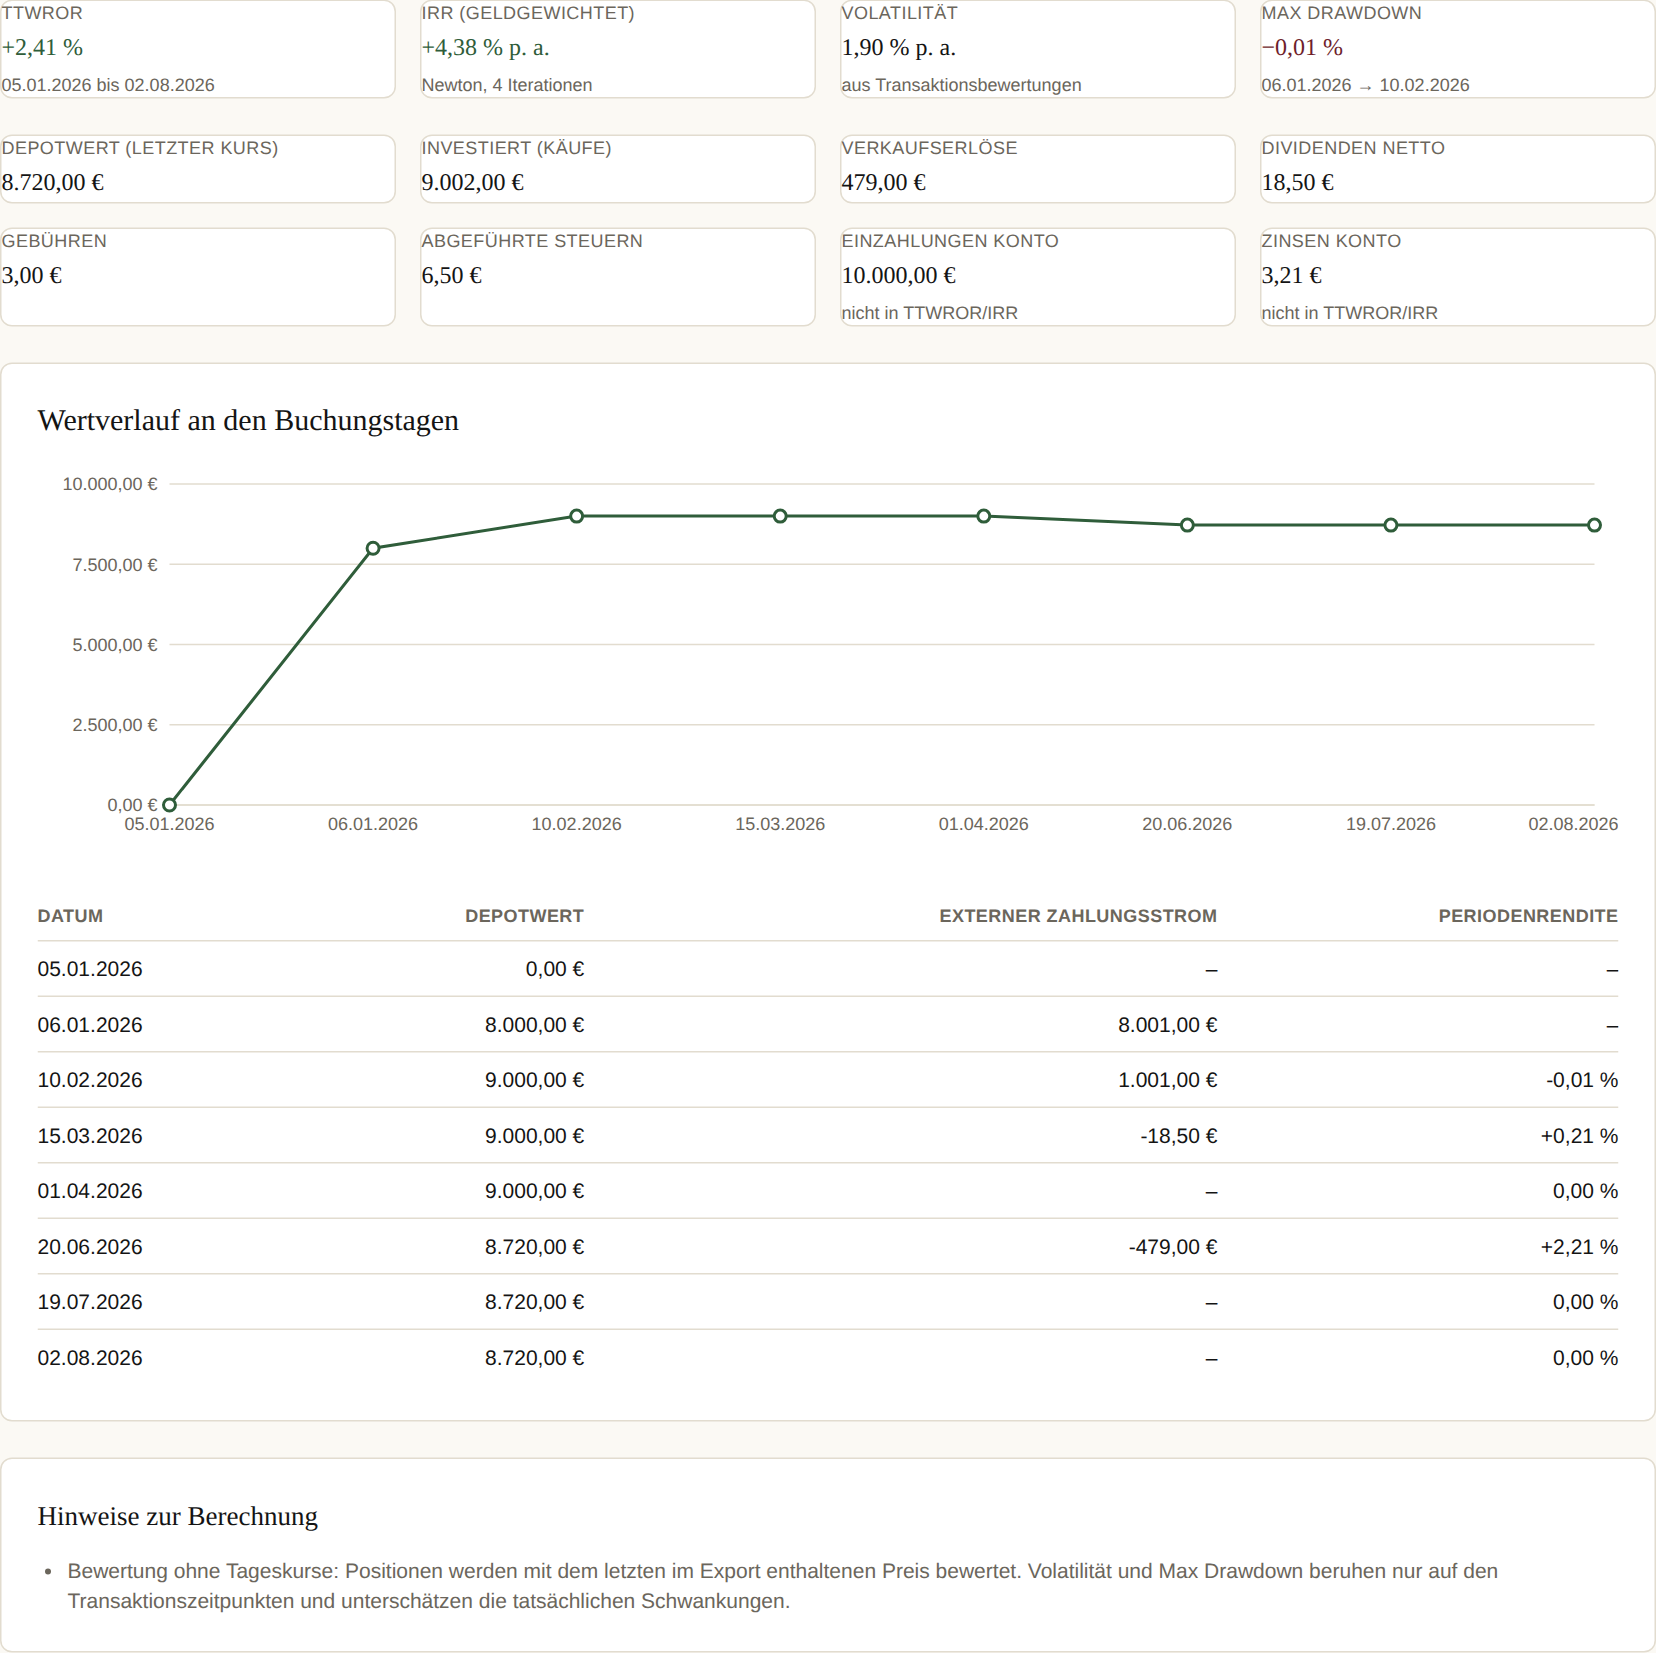
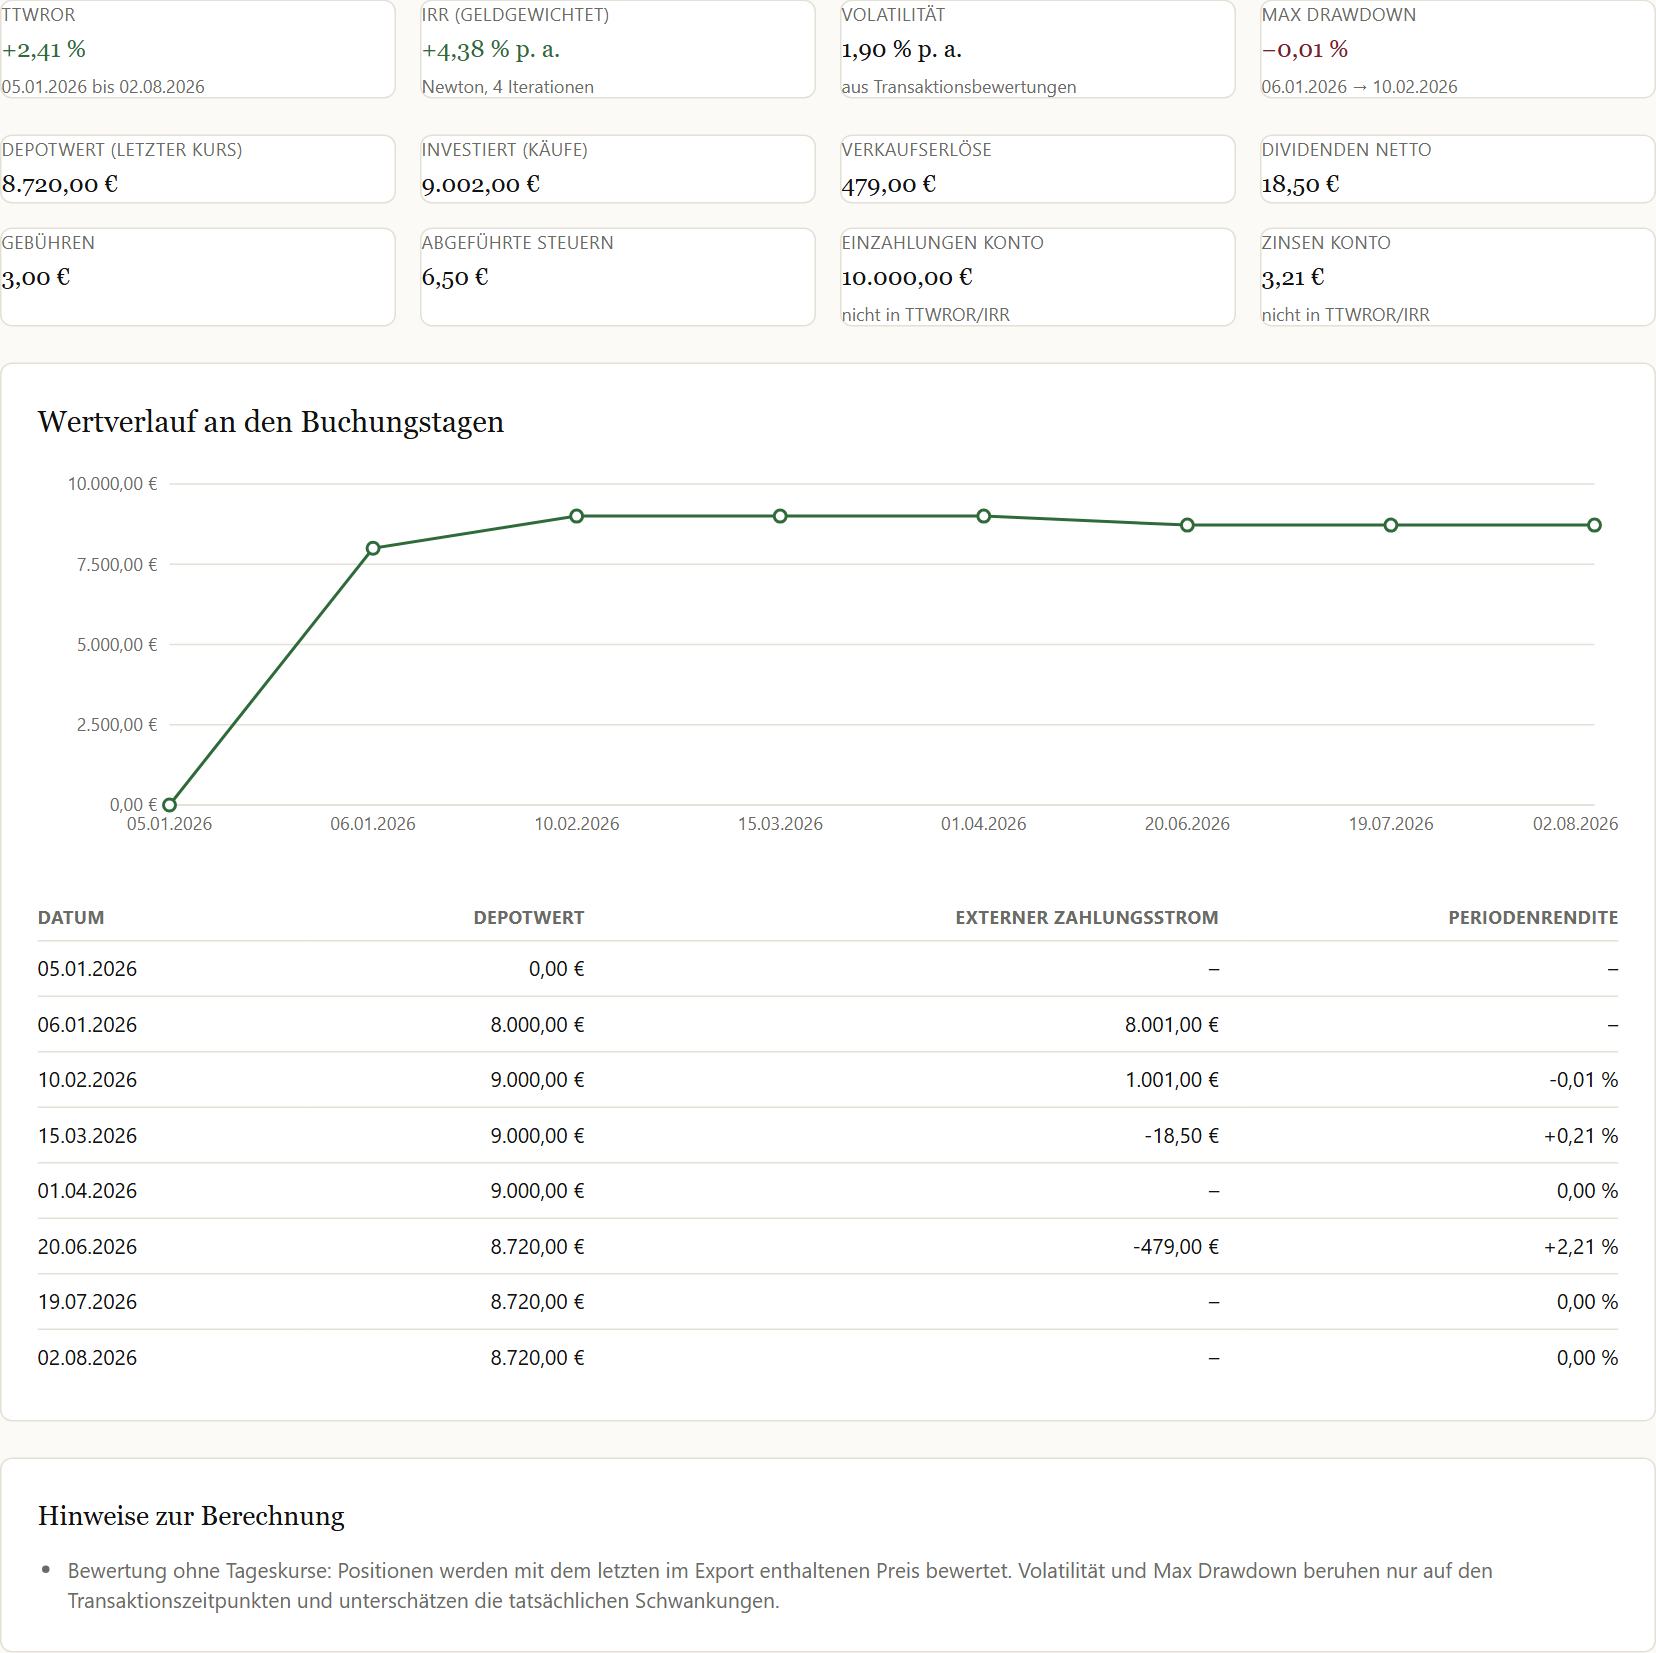
style(k1): Palette an K2 und K3 angleichen
Hex-Werte wie in K2/K3 (Token-Namen bleiben), auch in Diagrammen,
PDF und Favicon. Goldene Überzeile im PDF in gold-deep, Text der
Drop-Zone beim Ziehen in ink (Kontrast AA). Screenshots neu.

diff --git a/packages/pdf/src/ReportDocument.tsx b/packages/pdf/src/ReportDocument.tsx
@@ -2,18 +2,19 @@ import { Document, Page, StyleSheet, Text, View } from "@react-pdf/renderer";
 import type { ReportMetric, ReportPdfData, ReportTable } from "./types";
 
 const COLORS = {
-  ink: "#141414",
-  muted: "#6b665c",
-  line: "#e2dccf",
-  gold: "#b8962e",
-  green: "#2f5d3a",
-  bordeaux: "#6e1e2b",
-  paper: "#fbf9f4",
+  ink: "#111111",
+  muted: "#6b6b66",
+  line: "#e3e0d6",
+  gold: "#b8912f",
+  goldDeep: "#7d5f17",
+  green: "#2f6b3a",
+  bordeaux: "#7a1f2b",
+  paper: "#fbfaf6",
 } as const;
 
 const styles = StyleSheet.create({
   page: { padding: 48, paddingBottom: 72, fontFamily: "Helvetica", fontSize: 9.5, color: COLORS.ink, lineHeight: 1.4 },
-  eyebrow: { fontSize: 8, color: COLORS.gold, letterSpacing: 1.5, textTransform: "uppercase" },
+  eyebrow: { fontSize: 8, color: COLORS.goldDeep, letterSpacing: 1.5, textTransform: "uppercase" },
   title: { fontFamily: "Times-Roman", fontSize: 26, lineHeight: 1.15, marginTop: 6 },
   subtitle: { fontSize: 10, color: COLORS.muted, marginTop: 6 },
   meta: { fontSize: 8, color: COLORS.muted, marginTop: 10, paddingBottom: 10, borderBottomWidth: 1, borderBottomColor: COLORS.line },

diff --git a/apps/web/components/depotdoktor/FileDrop.tsx b/apps/web/components/depotdoktor/FileDrop.tsx
@@ -28,10 +28,12 @@ export function FileDrop({ onFile }: { onFile: (file: File) => void }) {
       }
     >
       <p className="font-serif text-xl">CSV-Export hierher ziehen</p>
-      <p className="mt-2 text-sm text-muted">
+      <p className={active ? "mt-2 text-sm text-ink" : "mt-2 text-sm text-muted"}>
         Trade Republic: App → Kontoauszüge → Transaktionsexport. Scalable Capital: Broker → Transaktionen → CSV.
       </p>
-      <p className="mt-1 text-sm text-muted">Nur CSV. PDF-Kontoauszüge und Excel-Dateien kann DepotDoktor nicht lesen.</p>
+      <p className={active ? "mt-1 text-sm text-ink" : "mt-1 text-sm text-muted"}>
+        Nur CSV. PDF-Kontoauszüge und Excel-Dateien kann DepotDoktor nicht lesen.
+      </p>
       <button
         type="button"
         onClick={() => inputRef.current?.click()}

diff --git a/apps/web/app/globals.css b/apps/web/app/globals.css
@@ -1,18 +1,18 @@
 @import "tailwindcss";
 
 @theme {
-  --color-ink: #141414;
-  --color-paper: #fbf9f4;
+  --color-ink: #111111;
+  --color-paper: #fbfaf6;
   --color-surface: #ffffff;
-  --color-line: #e2dccf;
-  --color-muted: #6b665c;
-  --color-gold: #b8962e;
-  --color-gold-deep: #7f6619;
-  --color-gold-soft: #f3ead0;
-  --color-green: #2f5d3a;
-  --color-green-soft: #e3ede4;
-  --color-bordeaux: #6e1e2b;
-  --color-bordeaux-soft: #f1e1e3;
+  --color-line: #e3e0d6;
+  --color-muted: #6b6b66;
+  --color-gold: #b8912f;
+  --color-gold-deep: #7d5f17;
+  --color-gold-soft: #f3e9c9;
+  --color-green: #2f6b3a;
+  --color-green-soft: #dfeadf;
+  --color-bordeaux: #7a1f2b;
+  --color-bordeaux-soft: #f1dcdf;
   --font-sans: "Segoe UI", "Helvetica Neue", Arial, sans-serif;
   --font-serif: Georgia, "Times New Roman", serif;
 }

diff --git a/packages/charts/src/theme.ts b/packages/charts/src/theme.ts
@@ -1,11 +1,11 @@
 export const CHART_COLORS = {
-  ink: "#141414",
-  muted: "#6b665c",
-  line: "#e2dccf",
+  ink: "#111111",
+  muted: "#6b6b66",
+  line: "#e3e0d6",
   surface: "#ffffff",
-  green: "#2f5d3a",
-  gold: "#b8962e",
-  bordeaux: "#6e1e2b",
+  green: "#2f6b3a",
+  gold: "#b8912f",
+  bordeaux: "#7a1f2b",
 } as const;
 
 export const AXIS_TICK = { fill: CHART_COLORS.muted, fontSize: 12 } as const;
